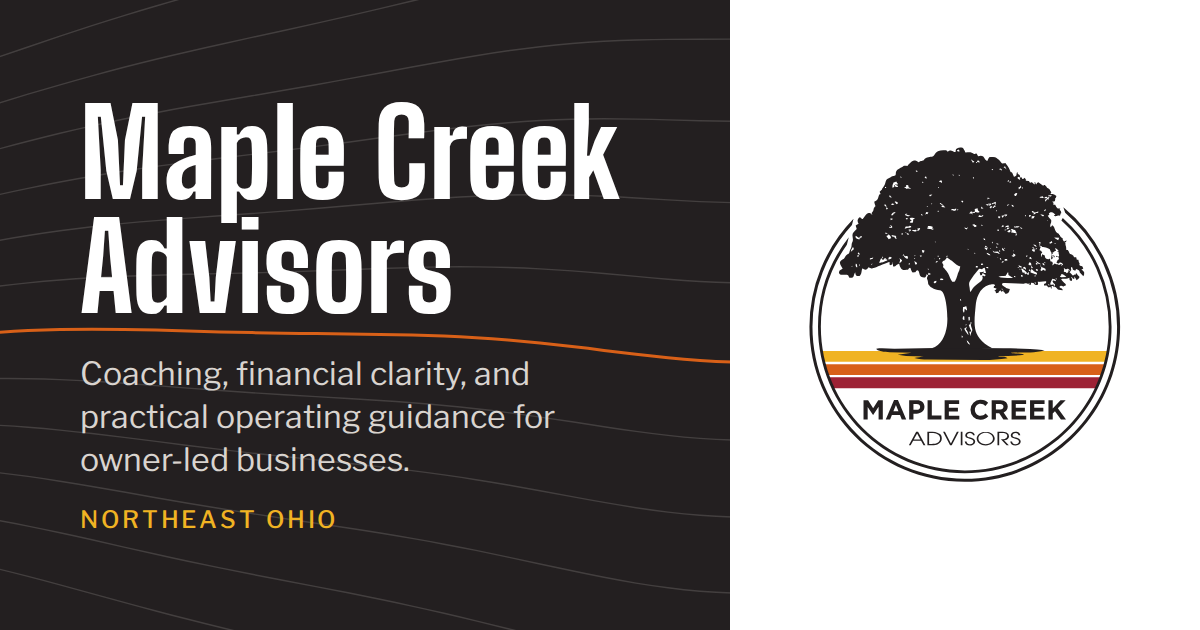
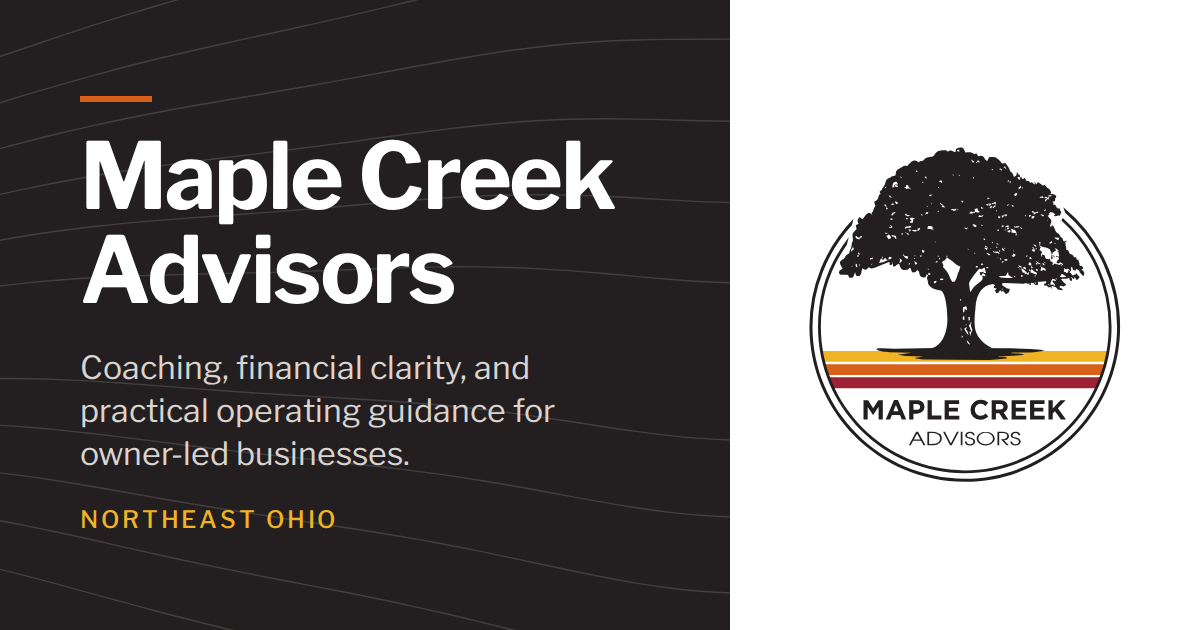
Apply the cleaner editorial style to every page and drop the condensed headline font
Claude-Session: https://claude.ai/code/session_01X9hd41roWiitbcJMHwT28w

Changed region(s): [[0.0, 0.1508, 0.5242, 0.5429], [0.0617, 0.5429, 0.5858, 0.754]]

diff --git a/src/assets/site.css b/src/assets/site.css
@@ -18,11 +18,11 @@
   --on-dark-muted: #d9d4cf;
   --contour: #cfc8c1;
 
-  /* Headlines: Big Shoulders Display (condensed, Midwest industrial). Text and interface: Libre Franklin. */
-  --font-display: 'Big Shoulders Display', 'Arial Narrow', 'Roboto Condensed', sans-serif;
+  /* One family throughout: Libre Franklin, bold for headings. */
+  --font-display: 'Libre Franklin', 'Helvetica Neue', Arial, sans-serif;
   --font-ui: 'Libre Franklin', 'Helvetica Neue', Arial, sans-serif;
   --font-body: 'Libre Franklin', 'Helvetica Neue', Arial, sans-serif;
-  --ds: 1.2; /* condensed headline face needs a larger size to match the old visual weight */
+  --ds: 1;
 
   --step--1: 0.875rem;
   --step-0: 1.125rem;
@@ -749,19 +749,19 @@ main:focus { outline: none; }
 .onboarding-card { max-width: 44rem; margin-inline: auto; background: #fff; border: 1px solid var(--rule); border-top: 3px solid var(--maple); padding: clamp(0.5rem, 0.25rem + 1vw, 1.25rem) 0; min-height: 20rem; }
 .onboarding-fallback { max-width: 44rem; margin: 1.25rem auto 0; color: var(--ink-muted); font-size: 0.95rem; }
 
-/* Style preview: a quieter, more editorial treatment (/preview-clean/ only) ------------------ */
-.style-clean { --font-display: var(--font-ui); --ds: 1; }
-.style-clean h1, .style-clean h2, .style-clean h3 { font-weight: 700; letter-spacing: -0.015em; line-height: 1.12; }
-.style-clean h1 { font-size: clamp(2.1rem, 1.35rem + 2.9vw, 3.35rem); letter-spacing: -0.025em; line-height: 1.06; }
-.style-clean h2 { font-size: clamp(1.55rem, 1.2rem + 1.3vw, 2.15rem); }
-.style-clean h3 { font-size: 1.15rem; letter-spacing: -0.005em; }
-.style-clean .wordmark { font-weight: 700; font-size: 1.2rem; letter-spacing: -0.01em; }
-.style-clean .footer-name { font-weight: 700; font-size: 1.15rem; letter-spacing: -0.01em; }
-.style-clean .eyebrow, .style-clean .person-role, .style-clean .lane-chip, .style-clean .footer-label, .style-clean .service-list h3 {
+/* Editorial treatment: sentence-case labels, no pills or arrows, tighter bold headings --------- */
+h1, h2, h3 { font-weight: 700; letter-spacing: -0.015em; line-height: 1.12; }
+h1 { font-size: clamp(2.1rem, 1.35rem + 2.9vw, 3.35rem); letter-spacing: -0.025em; line-height: 1.06; }
+h2 { font-size: clamp(1.55rem, 1.2rem + 1.3vw, 2.15rem); }
+h3 { font-size: 1.15rem; letter-spacing: -0.005em; }
+.wordmark { font-weight: 700; font-size: 1.2rem; letter-spacing: -0.01em; }
+.footer-name { font-weight: 700; font-size: 1.15rem; letter-spacing: -0.01em; }
+.eyebrow, .person-role, .lane-chip, .footer-label, .service-list h3 {
   text-transform: none; letter-spacing: 0; font-weight: 600; font-size: 0.95rem;
 }
-.style-clean .lane-chip { border: 0; border-radius: 0; padding: 0; }
-.style-clean .text-link::after, .style-clean .chooser-path::after { content: none; }
-.style-clean .stage-num { background: var(--paper); color: var(--maple-ink); border-radius: 0; width: auto; padding-right: 0.6rem; font-family: var(--font-ui); font-weight: 700; font-size: 1rem; justify-content: start; }
-.style-clean .step-num { font-family: var(--font-ui); font-weight: 700; font-size: 1.6rem; }
-.style-clean .chooser-label { text-transform: none; letter-spacing: 0; font-weight: 600; font-size: 0.95rem; }
+.lane-chip { border: 0; border-radius: 0; padding: 0; }
+.text-link::after, .chooser-path::after { content: none; }
+.stage-num { background: var(--paper); color: var(--maple-ink); border-radius: 0; width: auto; padding-right: 0.6rem; font-family: var(--font-ui); font-weight: 700; font-size: 1rem; justify-content: start; }
+.step-num { font-family: var(--font-ui); font-weight: 700; font-size: 1.6rem; }
+.chooser-label { text-transform: none; letter-spacing: 0; font-weight: 600; font-size: 0.95rem; }
+.service-list h4, .stage-questions dt { text-transform: none; letter-spacing: 0; font-weight: 600; font-size: 0.95rem; }

diff --git a/src/assets/fonts/fonts.css b/src/assets/fonts/fonts.css
@@ -1,7 +1,3 @@
-/* Self-hosted Latin subsets of Big Shoulders Display and Libre Franklin (SIL Open Font License). */
-@font-face { font-family: 'Big Shoulders Display'; font-style: normal; font-weight: 600; font-display: swap; src: url('big-shoulders-display-normal-832b15.woff2') format('woff2'); unicode-range: U+0000-00FF, U+0131, U+0152-0153, U+02BB-02BC, U+02C6, U+02DA, U+02DC, U+0304, U+0308, U+0329, U+2000-206F, U+20AC, U+2122, U+2191, U+2193, U+2212, U+2215, U+FEFF, U+FFFD; }
-@font-face { font-family: 'Big Shoulders Display'; font-style: normal; font-weight: 700; font-display: swap; src: url('big-shoulders-display-normal-832b15.woff2') format('woff2'); unicode-range: U+0000-00FF, U+0131, U+0152-0153, U+02BB-02BC, U+02C6, U+02DA, U+02DC, U+0304, U+0308, U+0329, U+2000-206F, U+20AC, U+2122, U+2191, U+2193, U+2212, U+2215, U+FEFF, U+FFFD; }
-@font-face { font-family: 'Big Shoulders Display'; font-style: normal; font-weight: 800; font-display: swap; src: url('big-shoulders-display-normal-832b15.woff2') format('woff2'); unicode-range: U+0000-00FF, U+0131, U+0152-0153, U+02BB-02BC, U+02C6, U+02DA, U+02DC, U+0304, U+0308, U+0329, U+2000-206F, U+20AC, U+2122, U+2191, U+2193, U+2212, U+2215, U+FEFF, U+FFFD; }
 @font-face { font-family: 'Libre Franklin'; font-style: italic; font-weight: 400; font-display: swap; src: url('libre-franklin-italic-a9a0f6.woff2') format('woff2'); unicode-range: U+0000-00FF, U+0131, U+0152-0153, U+02BB-02BC, U+02C6, U+02DA, U+02DC, U+0304, U+0308, U+0329, U+2000-206F, U+20AC, U+2122, U+2191, U+2193, U+2212, U+2215, U+FEFF, U+FFFD; }
 @font-face { font-family: 'Libre Franklin'; font-style: normal; font-weight: 400; font-display: swap; src: url('libre-franklin-normal-f2d133.woff2') format('woff2'); unicode-range: U+0000-00FF, U+0131, U+0152-0153, U+02BB-02BC, U+02C6, U+02DA, U+02DC, U+0304, U+0308, U+0329, U+2000-206F, U+20AC, U+2122, U+2191, U+2193, U+2212, U+2215, U+FEFF, U+FFFD; }
 @font-face { font-family: 'Libre Franklin'; font-style: normal; font-weight: 500; font-display: swap; src: url('libre-franklin-normal-f2d133.woff2') format('woff2'); unicode-range: U+0000-00FF, U+0131, U+0152-0153, U+02BB-02BC, U+02C6, U+02DA, U+02DC, U+0304, U+0308, U+0329, U+2000-206F, U+20AC, U+2122, U+2191, U+2193, U+2212, U+2215, U+FEFF, U+FFFD; }

diff --git a/DECISIONS.md b/DECISIONS.md
@@ -56,3 +56,4 @@ Choices made in the first build, with the reason for each. Founders can reverse 
 | 2026-10-13 | Client onboarding form built as a native Close CRM web form ("Maple Creek Advisors Onboarding", 13 questions, about four minutes), sent by hand after a first conversation and before the Anchor agreement. Also embedded on an unlisted, noindex page at /onboarding/ with a direct-link fallback. Answers save to the client's Close record; notifications go to matt@maplecreekadvisors.com. Tested: saving, required fields, and a repeat email (adds to the same record, no duplicate). The form never writes Current Brand(s), Original Business, or Source. | Matt's direction. Close's basic plan has no conditional logic, uploads, or workflows, and its builder offers checkboxes only through custom fields, so the services question was dropped. |
 | 2026-10-14 | Color scheme changed site-wide to the BUILD / Maple Creek brand palette: near-black #231F20 (replaces evergreen), gold #F0B323 (accents on dark and borders), orange #D86018 (accent lines), deep red #9D2235 (small accent text on light), on white and a light warm gray. All text pairs pass WCAG AA (lowest 6.9:1). The logo badge, header logo, favicon, touch icon, search logo, and link preview image were recolored to the same palette (black tree; gold, orange, red stripes), matching the black Maple Creek Coaching logo in the brand file. Content and fonts unchanged. | Matt's direction, from BUILDBrandGuide (April 2026) and the Maple Creek logo file. Official recolored Maple Creek Advisors logo files from the designer should replace these when available. |
 | 2026-10-14 | Private style preview at /preview-clean/ and /preview-clean/services/ (noindex, not linked, not in the sitemap): the same Home and Services pages with headings in Libre Franklin bold instead of the condensed display face, sentence-case labels instead of spaced capitals, no pill tags, no arrow links, and plain stage numbers. Scoped to a body class, so the live pages are unchanged. Delete the two routes once a style is chosen. | Matt felt the fonts looked AI-generated; this lets him compare the real pages. |
+| 2026-10-14 | Cleaner style applied to every page: Libre Franklin throughout (bold, slightly tightened headings) replaces Big Shoulders Display, which was removed from the site (35 KB less to load); labels in sentence case instead of spaced capitals; no pill outlines or arrow links; plain stage numbers. Link preview image updated to match. The private /preview-clean/ pages were removed. | Matt chose the preview after comparing it with the live pages. |

diff --git a/README.md b/README.md
@@ -74,7 +74,7 @@ Pages: Home, Services, How We Work, About, BUILD, Contact, and a 404 page.
 - **Indexing:** with `allowIndexing` set to `false`, every page would carry `noindex` and no sitemap is built. It is currently `true`.
 - **Canonical tags and Open Graph URLs and image** use `canonicalDomain` (`https://maplecreekadvisors.com`). `sitemap.xml` is built only when `allowIndexing` is also `true`.
 - **No analytics, cookies, or trackers.** The contact path is a plain email link, so the site collects no data itself. That is why there is no privacy page yet. If analytics or a form is added later, document what it collects and add a privacy page that describes the actual data handling.
-- **Web fonts** are self-hosted in `src/assets/fonts/` (Big Shoulders Display for headlines, Libre Franklin for text and interface; both SIL Open Font License, Latin subsets). The site makes no requests to third-party font services.
+- **Web fonts** are self-hosted in `src/assets/fonts/` (Libre Franklin for headings, text, and interface; SIL Open Font License, Latin subsets). The site makes no requests to third-party font services.
 - **Link preview image:** `src/assets/og-image.png` (1200 x 630) shows the name and tagline. Regenerate it with `npm run og-image` after changing either.
 
 ## Preview and deployment
